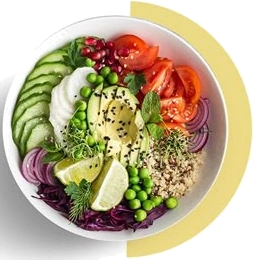
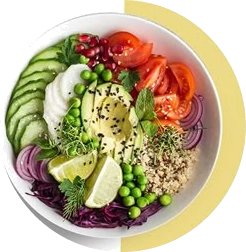
be responsive kolkas

diff --git a/index.html b/index.html
@@ -53,7 +53,9 @@
         </div>
 
         <div class="headerio-desine">
-            <img class="ryziai" src="./pic/bliuderis_ryziu_headeryje.webp" alt="bliudelis_su_darzovemis_ryziais">
+            
+            <img class="ryziai" src="./pic/bliudelis_ryziu_hederyje.webp" alt="bliudelis_su_darzovemis_ryziais">
+            <img class="lapas" src="./pic/ryziu_lapas.webp">
         </div>
 </div>
 
@@ -68,7 +70,7 @@
 <main class="container">
     <div class="viduriuko-pagrindas">
     <div class="main-kairys-konteineris">
-        <img src="./pic/avokadai.webp">
+        <img class="ryziai" src="./pic/avokadai.webp">
 
     </div>
     <div class="main-desinys-konteineris" >
@@ -119,7 +121,7 @@
 
         <img class="burokeliai" src="./pic/buroku_sriuba.webp" >
 
-    <div class="burbulas">
+    <div class="ryziai burbulas">
         <p class="pirmas-tekstas">Lorem ipsum dolor, sit amet consectetur adipisicing elit. Ullam ex quam quibusdam similique, ipsum impedit minus sequi delectus quae ea quasi rerum, laborum necessitatibus tempora!</p>
         <h4 class="icon antras-h4">Malte Kramer</h5>
         <p class="antras-tekstas">Luxury presence</p>

diff --git a/css/header.css b/css/header.css
@@ -98,3 +98,10 @@ padding: 10px;
 .antras-tekstas:hover{
     color: red;
 }
+.ryziai{
+        border-radius: 50%; /* Apvalus paveiksliukas */
+        filter: drop-shadow(-50px 30px 10px rgba(0, 0, 0, 0.2));
+    }
+    .lapas{
+        height: 25%;
+    }
